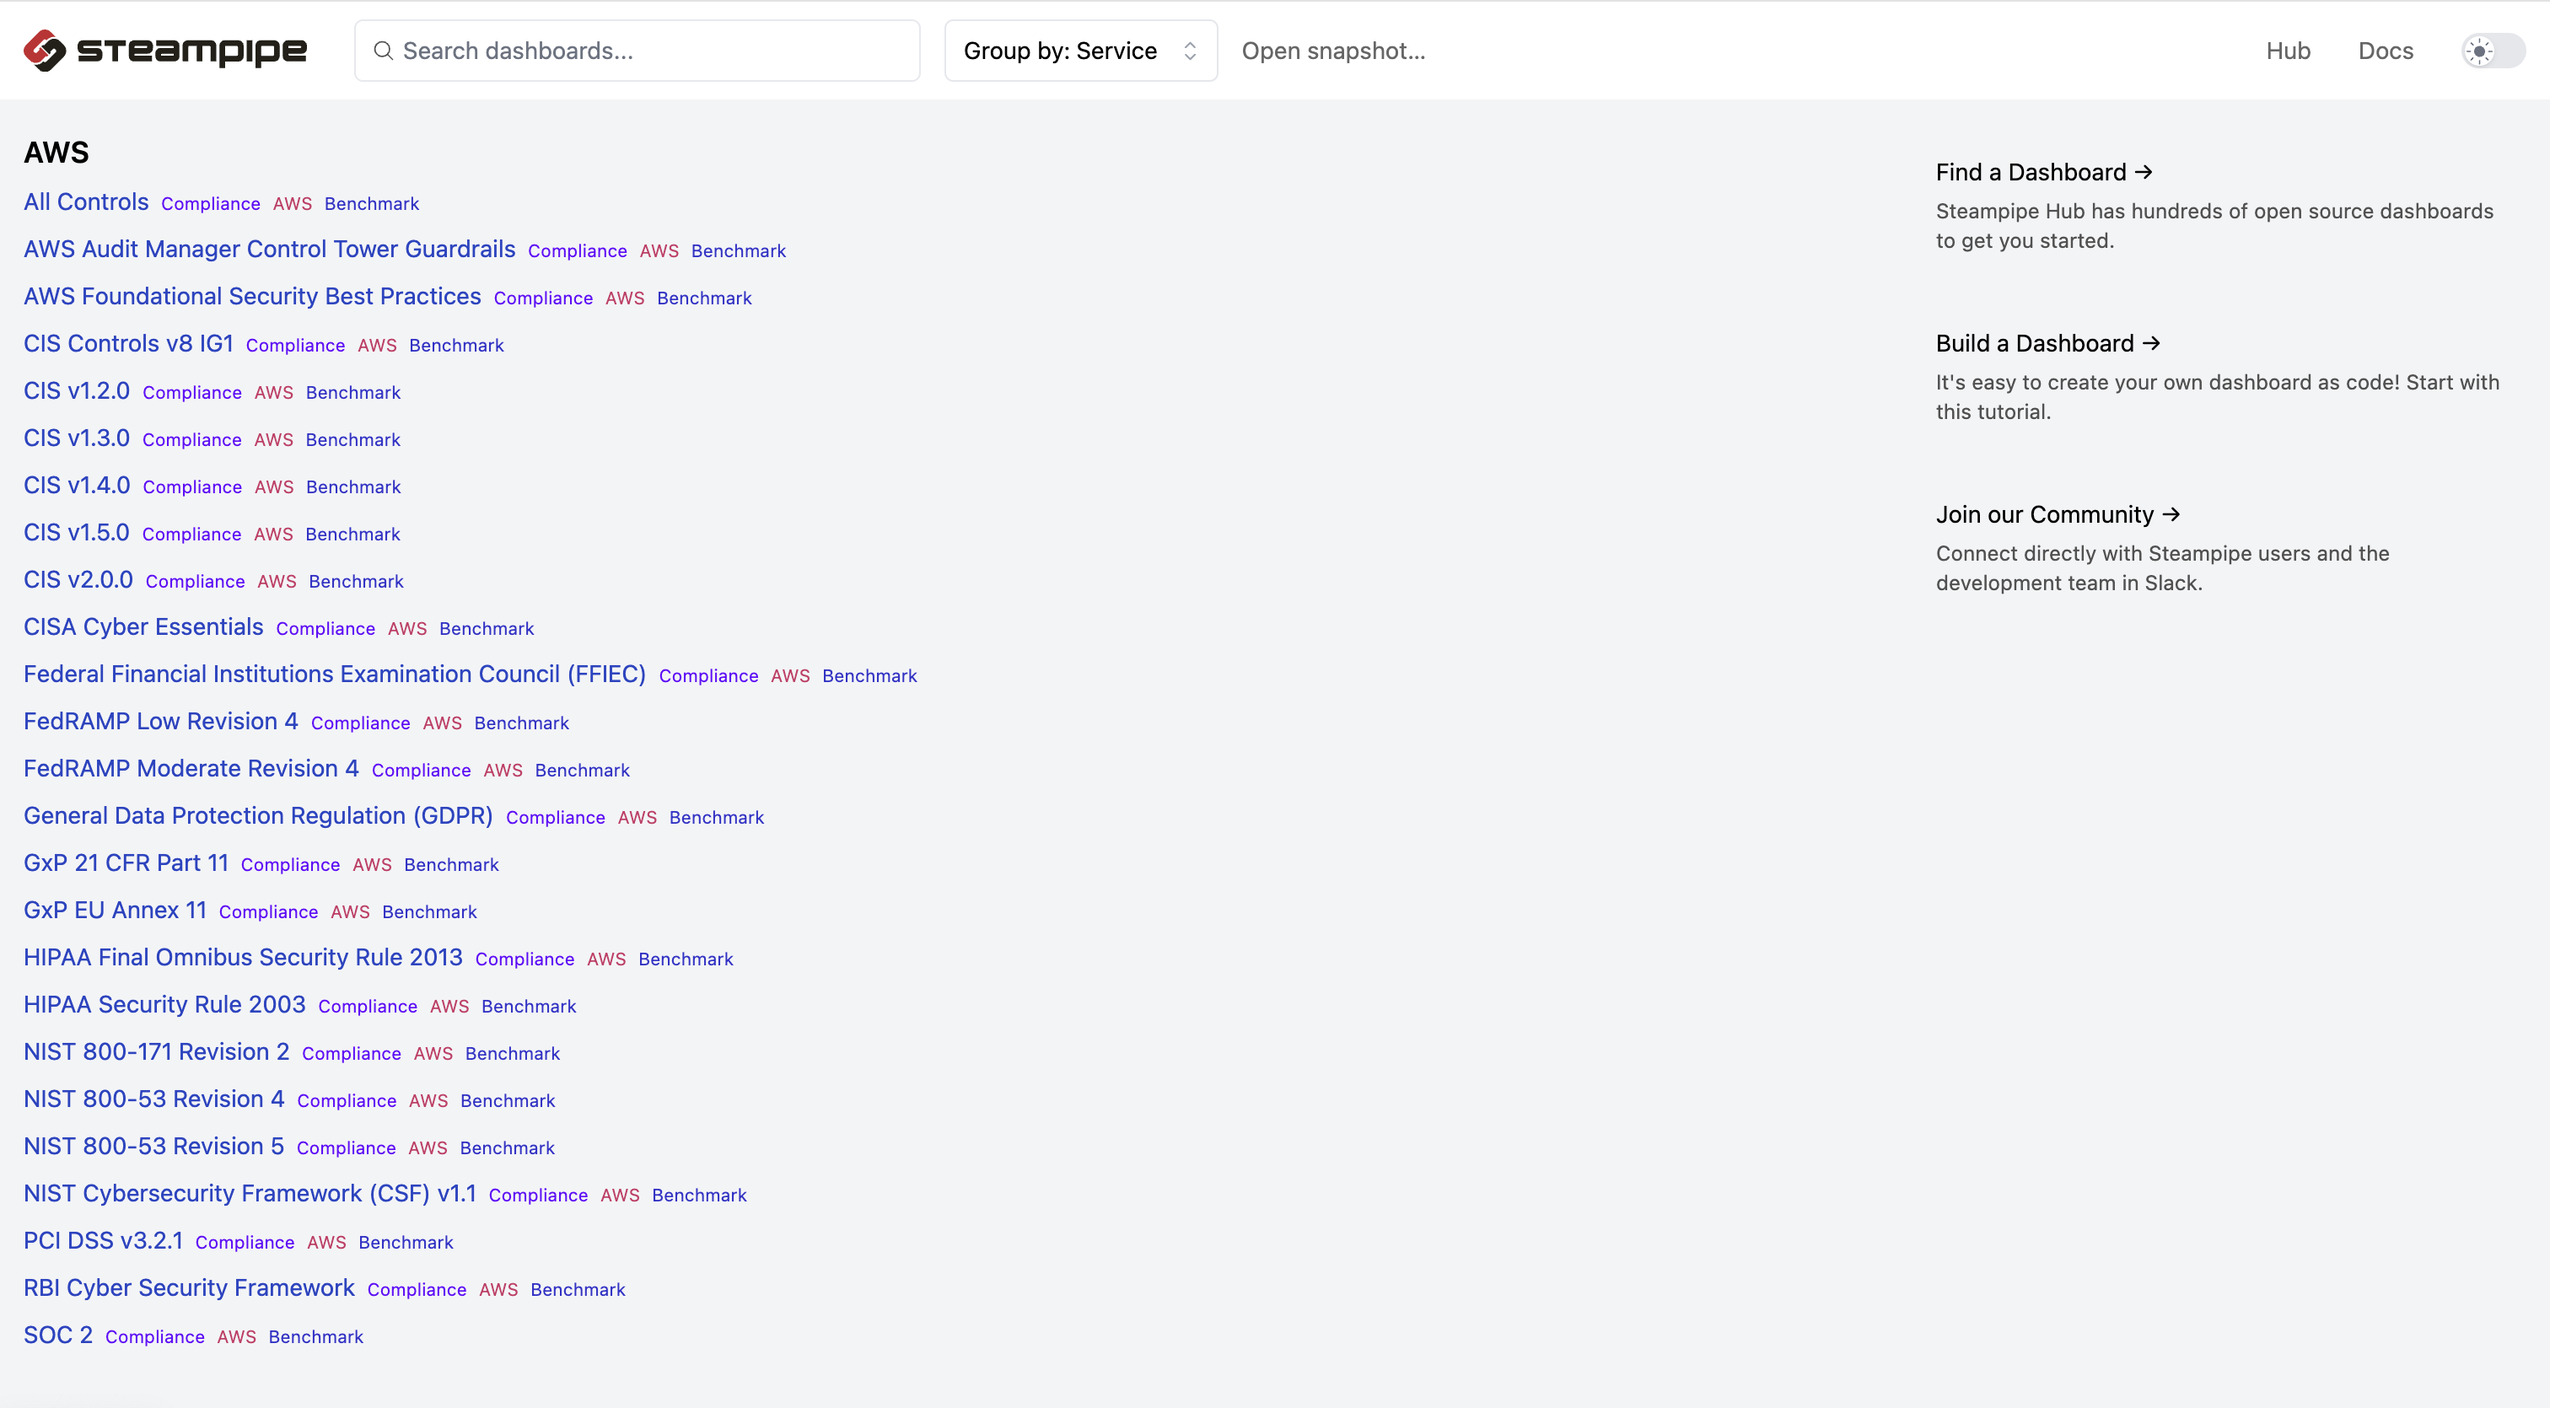
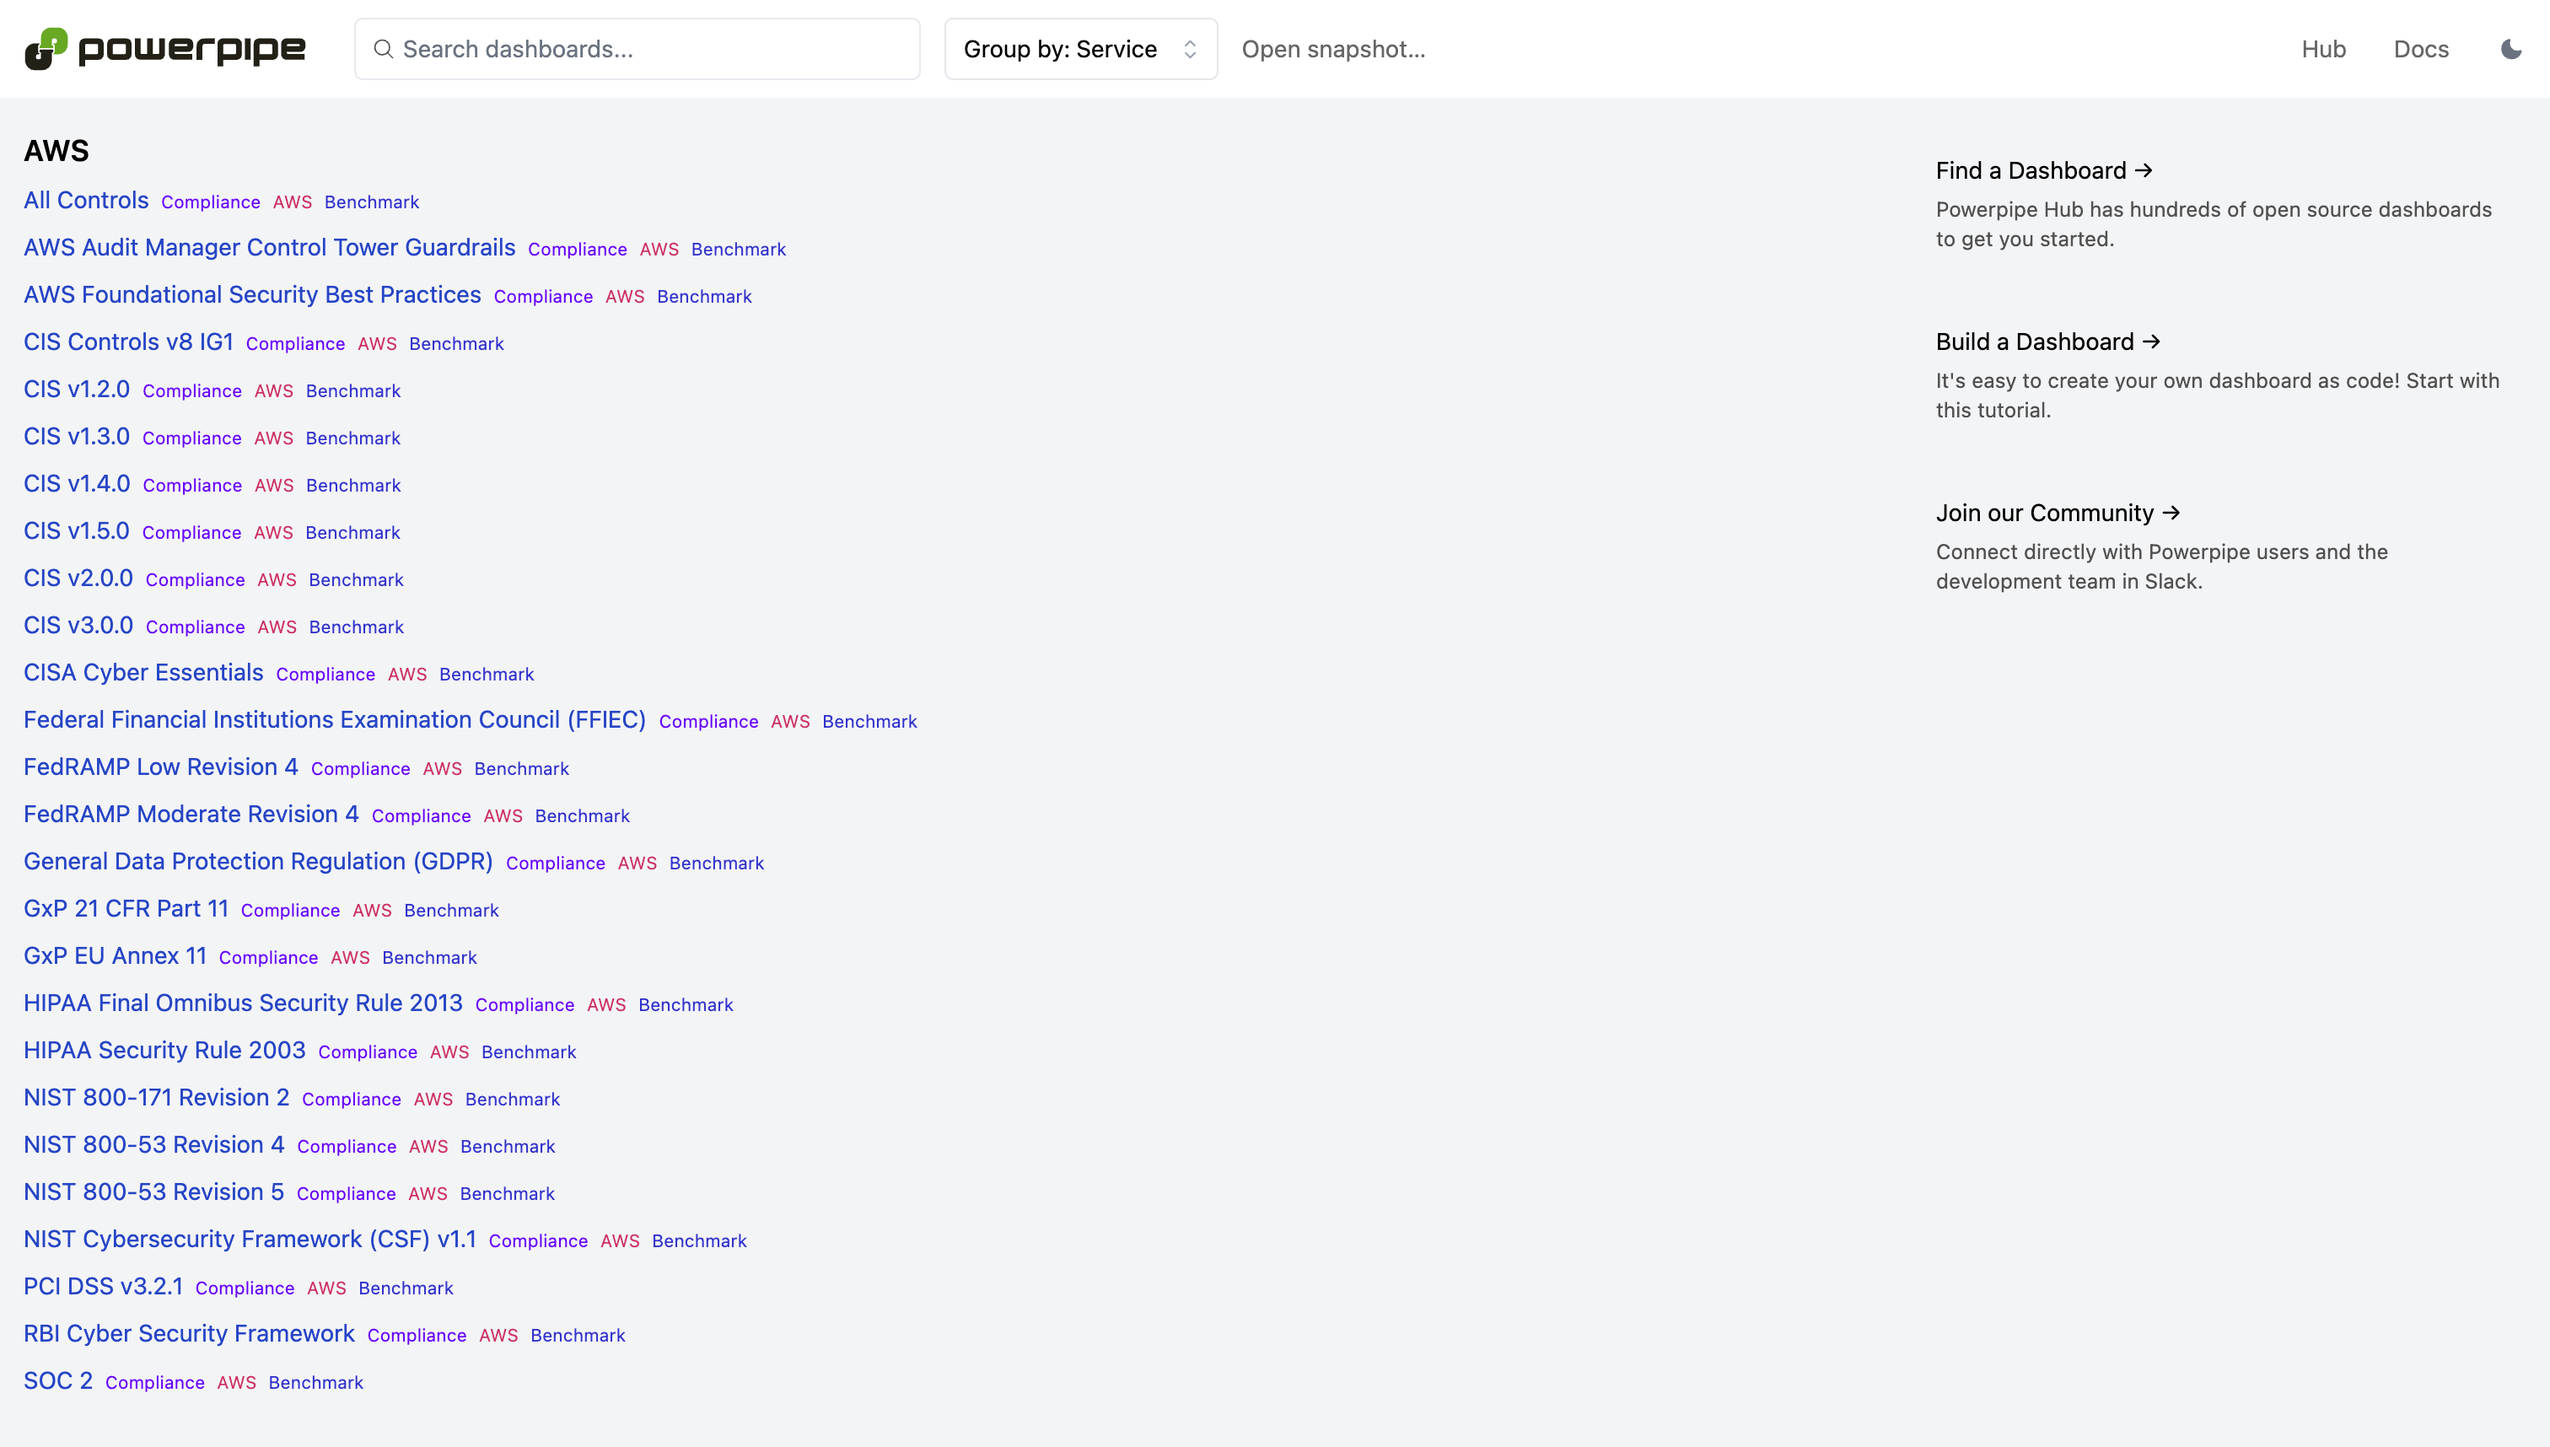
Update mod

diff --git a/docs/index.md b/docs/index.md
@@ -2,10 +2,10 @@
 
 Run individual configuration, compliance and security controls or full compliance benchmarks for `Audit Manager Control Tower`, `AWS Foundational Security Best Practices`, `CIS`, `CISA Cyber Essentials`, `FedRAMP`, `FFIEC`, `GDPR`, `GxP 21 CFR Part 11`, `GxP EU Annex 11`, `HIPAA Final Omnibus Security Rule 2013`, `HIPAA Security Rule 2003`, `NIST 800-53`, `NIST CSF`, `PCI DSS`, `RBI Cyber Security Framework`, `SOC 2`, and more across all your AWS accounts.
 
-<img src="https://raw.githubusercontent.com/turbot/steampipe-mod-aws-compliance/main/docs/aws_compliance_dashboard.png" width="50%" type="thumbnail"/>
-<img src="https://raw.githubusercontent.com/turbot/steampipe-mod-aws-compliance/main/docs/aws_cis_v140_dashboard.png" width="50%" type="thumbnail"/>
-<img src="https://raw.githubusercontent.com/turbot/steampipe-mod-aws-compliance/main/docs/aws_cis_v140_console.png" width="50%" type="thumbnail"/>
-<img src="https://raw.githubusercontent.com/turbot/steampipe-mod-aws-compliance/main/docs/aws_fsbp_dashboard.png" width="50%" type="thumbnail"/>
+<img src="https://raw.githubusercontent.com/turbot/steampipe-mod-aws-compliance/add-new-checks/docs/aws_compliance_dashboard.png" width="50%" type="thumbnail"/>
+<img src="https://raw.githubusercontent.com/turbot/steampipe-mod-aws-compliance/add-new-checks/docs/aws_cis_v300_dashboard.png" width="50%" type="thumbnail"/>
+<img src="https://raw.githubusercontent.com/turbot/steampipe-mod-aws-compliance/add-new-checks/docs/aws_cis_v300_console.png" width="50%" type="thumbnail"/>
+<img src="https://raw.githubusercontent.com/turbot/steampipe-mod-aws-compliance/add-new-checks/docs/aws_fsbp_dashboard.png" width="50%" type="thumbnail"/>
 
 ## Documentation
 
@@ -37,7 +37,7 @@ Finally, install the mod:
 mkdir dashboards
 cd dashboards
 powerpipe mod init
-powerpipe mod install github.com/turbot/powerpipe-mod-aws-compliance
+powerpipe mod install github.com/turbot/steampipe-mod-aws-compliance
 ```
 
 ### Browsing Dashboards
@@ -78,13 +78,13 @@ Different output formats are also available, for more information please see
 
 ### Common and Tag Dimensions
 
-The benchmark queries use common properties (like `account_id`, `connection_name` and `region`) and tags that are defined in the form of a default list of strings in the `mod.sp` file. These properties can be overwritten in several ways:
+The benchmark queries use common properties (like `account_id`, `connection_name` and `region`) and tags that are defined in the form of a default list of strings in the `variables.sp` file. These properties can be overwritten in several ways:
 
 It's easiest to setup your vars file, starting with the sample:
 
 ```sh
-cp powerpipe.ppvar.example powerpipe.ppvars
-vi powerpipe.ppvars
+cp steampipe.spvars.example steampipe.spvars
+vi steampipe.spvars
 ```
 
 Alternatively you can pass variables on the command line:

diff --git a/README.md b/README.md
@@ -6,10 +6,10 @@
 540+ checks covering industry defined security best practices across all AWS regions. Includes full support for multiple best practice benchmarks including **the latest (v3.0.0) CIS benchmark**, PCI DSS, AWS Foundational Security, CISA Cyber Essentials, FedRAMP, FFIEC, GxP 21 CFR Part 11, GxP EU Annex 11, HIPAA Final Omnibus Security Rule 2013, HIPAA Security Rule 2003, NIST 800-53, NIST CSF, Reserve Bank of India, Audit Manager Control Tower, and more!
 
 Run checks in a dashboard:
-![image](https://raw.githubusercontent.com/turbot/steampipe-mod-aws-compliance/main/docs/aws_cis_v140_dashboard.png)
+![image](https://raw.githubusercontent.com/turbot/steampipe-mod-aws-compliance/main/docs/aws_cis_v300_dashboard.png)
 
 Or in a terminal:
-![image](https://raw.githubusercontent.com/turbot/steampipe-mod-aws-compliance/main/docs/aws_cis_v140_console.png)
+![image](https://raw.githubusercontent.com/turbot/steampipe-mod-aws-compliance/main/docs/aws_cis_v300_console.png)
 
 ## Documentation
 
@@ -41,7 +41,7 @@ Finally, install the mod:
 mkdir dashboards
 cd dashboards
 powerpipe mod init
-powerpipe mod install github.com/turbot/powerpipe-mod-aws-compliance
+powerpipe mod install github.com/turbot/steampipe-mod-aws-compliance
 ```
 
 ### Browsing Dashboards
@@ -82,13 +82,13 @@ Different output formats are also available, for more information please see
 
 ### Common and Tag Dimensions
 
-The benchmark queries use common properties (like `account_id`, `connection_name` and `region`) and tags that are defined in the form of a default list of strings in the `mod.sp` file. These properties can be overwritten in several ways:
+The benchmark queries use common properties (like `account_id`, `connection_name` and `region`) and tags that are defined in the form of a default list of strings in the `variables.sp` file. These properties can be overwritten in several ways:
 
 It's easiest to setup your vars file, starting with the sample:
 
 ```sh
-cp powerpipe.ppvar.example powerpipe.ppvars
-vi powerpipe.ppvars
+cp steampipe.spvars.example steampipe.spvars
+vi steampipe.spvars
 ```
 
 Alternatively you can pass variables on the command line:
